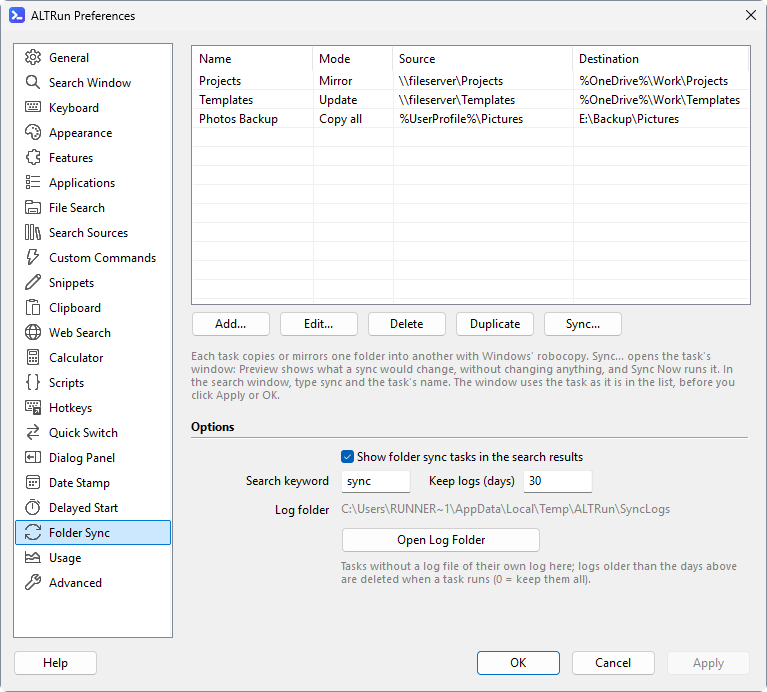
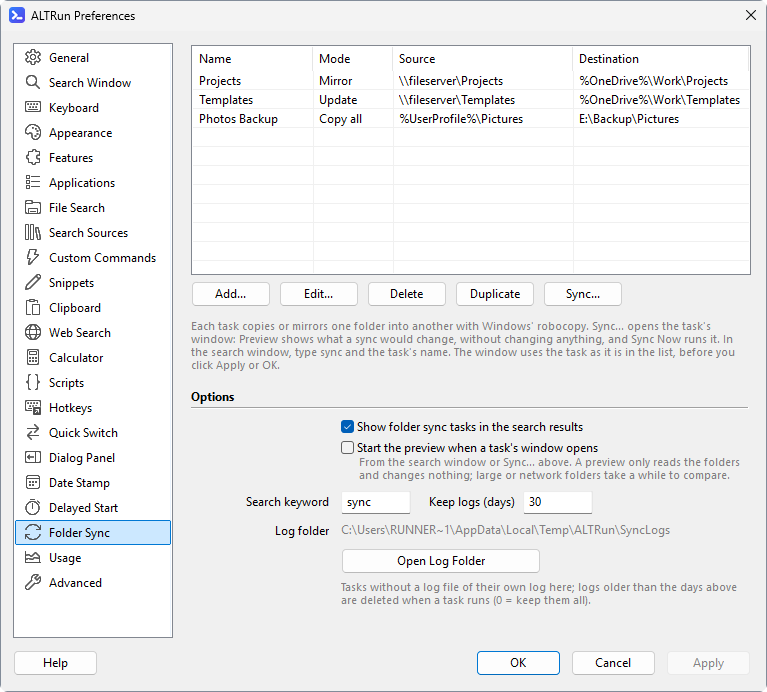
Option to Start the Preview When a Sync Task's Window Opens (Test Build 2026.11.03.22) (#398)

Changed region(s): [[0.3299, 0.6069, 0.9596, 0.8801], [0.2399, 0.3945, 0.9596, 0.6373]]

diff --git a/docs/wiki/Sync-Tasks.md b/docs/wiki/Sync-Tasks.md
@@ -10,8 +10,8 @@ Preferences → **Folder Sync** lists the tasks, with their mode and folders. Th
 ![Preferences → Folder Sync](https://raw.githubusercontent.com/zhugecaomao/ALTRun/main/docs/images/screenshots/prefs-sync.png)
 
 - **Add**, **Edit** (or double-click), **Delete**, **Duplicate** (a copy to change, e.g. for a second folder).
-- **Sync...** opens the selected task's window, as the task is in the list (no need to click Apply first). It only opens: **Preview** or **Sync Now** in the window starts it. For a task that is running, it shows its progress.
-- Options: show the tasks in the search results, the search keyword (`sync`), how many days logs are kept, and the log folder.
+- **Sync...** opens the selected task's window, as the task is in the list (no need to click Apply first). It only opens: **Preview** or **Sync Now** in the window starts it (or the preview starts at once with the option below). For a task that is running, it shows its progress.
+- Options: show the tasks in the search results; **Start the preview when a task's window opens** (off by default, `Features.Sync.AutoPreview`: the preview only reads the folders, but large or network folders take a while to compare, and a run is never started this way); the search keyword (`sync`), how many days logs are kept, and the log folder.
 
 The edit window, top to bottom:
 
@@ -39,7 +39,7 @@ Each task has its own window, *<task> - Folder Sync*. Preview and Run open it at
 ![Preview of a sync task](https://raw.githubusercontent.com/zhugecaomao/ALTRun/main/docs/images/screenshots/sync-preview.png)
 
 ## Running a task
-- Type the task's name, or `sync ` to list all tasks (`sync proj` searches only them). **Enter** only opens the task's window (nothing starts until you click **Preview** or **Sync Now** there); while it runs, Enter shows its progress.
+- Type the task's name, or `sync ` to list all tasks (`sync proj` searches only them). **Enter** only opens the task's window (nothing starts until you click **Preview** or **Sync Now** there, except the preview with **Start the preview when a task's window opens**); while it runs, Enter shows its progress.
 - `→` opens the actions: Sync Now (runs it straight away; a mirror is still previewed and asks before deleting), Preview (changes nothing), Open log, open the source or destination folder; while it runs, Show progress and Stop.
 - The result shows what the task does and how it is doing: *Running since 10:05*, *Monitoring since 10:05*, *Last run 09:30: OK*.
 - A task that ends says how it went (files copied and removed) in its window, and with a notification when the window isn't in front. If it fails without a window, ALTRun offers to open its log.

diff --git a/docs/wiki/Sync-Tasks-zh.md b/docs/wiki/Sync-Tasks-zh.md
@@ -10,8 +10,8 @@
 ![偏好设置 → 文件夹同步](https://raw.githubusercontent.com/zhugecaomao/ALTRun/main/docs/images/screenshots/prefs-sync.png)
 
 - **添加**、**编辑** (或双击)、**删除**、**复制一份** (复制后再改, 例如用于另一个文件夹)。
-- **同步...** 打开选中任务的窗口, 用的是列表里现在的内容 (不用先点应用)。只是打开窗口: 在窗口里点 **预览** 或 **立即同步** 才开始。任务正在运行时, 显示它的进度。
-- 选项: 在搜索结果里显示任务、搜索关键字 (`sync`)、日志保留天数、日志文件夹。
+- **同步...** 打开选中任务的窗口, 用的是列表里现在的内容 (不用先点应用)。只是打开窗口: 在窗口里点 **预览** 或 **立即同步** 才开始 (打开下面的选项时会马上开始预览)。任务正在运行时, 显示它的进度。
+- 选项: 在搜索结果里显示任务; **打开任务窗口时自动开始预览** (默认关, `Features.Sync.AutoPreview`: 预览只读取文件夹, 但文件夹很大或在网络上时比较要花一些时间; 不会这样自动运行同步); 搜索关键字 (`sync`)、日志保留天数、日志文件夹。
 
 编辑窗口从上到下:
 
@@ -39,7 +39,7 @@
 ![同步任务的预览](https://raw.githubusercontent.com/zhugecaomao/ALTRun/main/docs/images/screenshots/sync-preview.png)
 
 ## 运行任务
-- 输入任务名, 或输入 `sync ` 列出所有任务 (`sync proj` 只搜任务)。**Enter** 只打开任务的窗口 (在窗口里点 **预览** 或 **立即同步** 才开始); 运行中按 Enter 显示进度。
+- 输入任务名, 或输入 `sync ` 列出所有任务 (`sync proj` 只搜任务)。**Enter** 只打开任务的窗口 (在窗口里点 **预览** 或 **立即同步** 才开始; 打开了 **打开任务窗口时自动开始预览** 时马上开始预览); 运行中按 Enter 显示进度。
 - `→` 打开操作: 立即同步 (直接运行; 镜像仍会先预览, 要删除东西时先确认)、预览 (不做任何改动)、打开日志、打开源 / 目标文件夹; 运行中是 显示进度 和 停止。
 - 结果里显示任务做什么、现在怎样: *10:05 开始运行*、*10:05 开始持续同步*、*上次 09:30: 成功*。
 - 任务结束时在它的窗口里显示结果 (复制和删除了多少文件), 窗口不在最前面时还有一条通知。没有窗口时失败, 可以直接打开日志。

diff --git a/CHANGELOG.md b/CHANGELOG.md
@@ -5,6 +5,15 @@
 
 ## [未发布]
 
+## [2026.11.03.22]
+
+测试版。
+
+Test build.
+
+### 新增
+- 偏好设置 → 文件夹同步 新增 "打开任务窗口时自动开始预览" (默认关): 从搜索窗口按 Enter 或在偏好设置里点 同步... 打开任务窗口时, 马上开始预览; 预览只读取文件夹, 不会自动运行同步
+
 ## [2026.11.03.21]
 
 测试版。
@@ -1250,7 +1259,8 @@ Smoother typing, easier to get started, and a few useful new features.
 ## 更早的版本
 见 [GitHub Releases](https://github.com/zhugecaomao/ALTRun/releases)。
 
-[未发布]: https://github.com/zhugecaomao/ALTRun/compare/2026.11.03.21...HEAD
+[未发布]: https://github.com/zhugecaomao/ALTRun/compare/2026.11.03.22...HEAD
+[2026.11.03.22]: https://github.com/zhugecaomao/ALTRun/compare/2026.11.03.21...2026.11.03.22
 [2026.11.03.21]: https://github.com/zhugecaomao/ALTRun/compare/2026.11.03.20...2026.11.03.21
 [2026.11.03.20]: https://github.com/zhugecaomao/ALTRun/compare/2026.11.03.19...2026.11.03.20
 [2026.11.03.19]: https://github.com/zhugecaomao/ALTRun/compare/2026.11.03.18...2026.11.03.19
